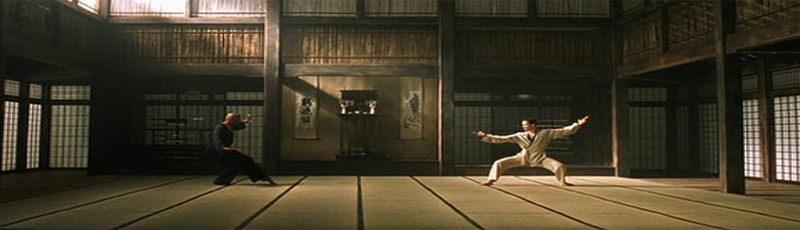
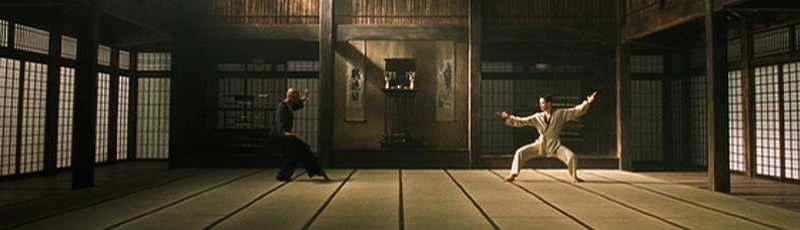
Home image with the right aspect ratio.

diff --git a/app/assets/stylesheets/application.css.scss b/app/assets/stylesheets/application.css.scss
@@ -83,10 +83,10 @@ input, textarea, select {
 }
 
 #banner {
-	width: 800px;
+	width: 684px;
 	margin: 0 auto;
-	background: url(dojo.png) no-repeat left top;
-	height: 230px;
+	background: url(dojo.jpg) no-repeat left top;
+	height: 297px;
 }
 
 /* Header */
